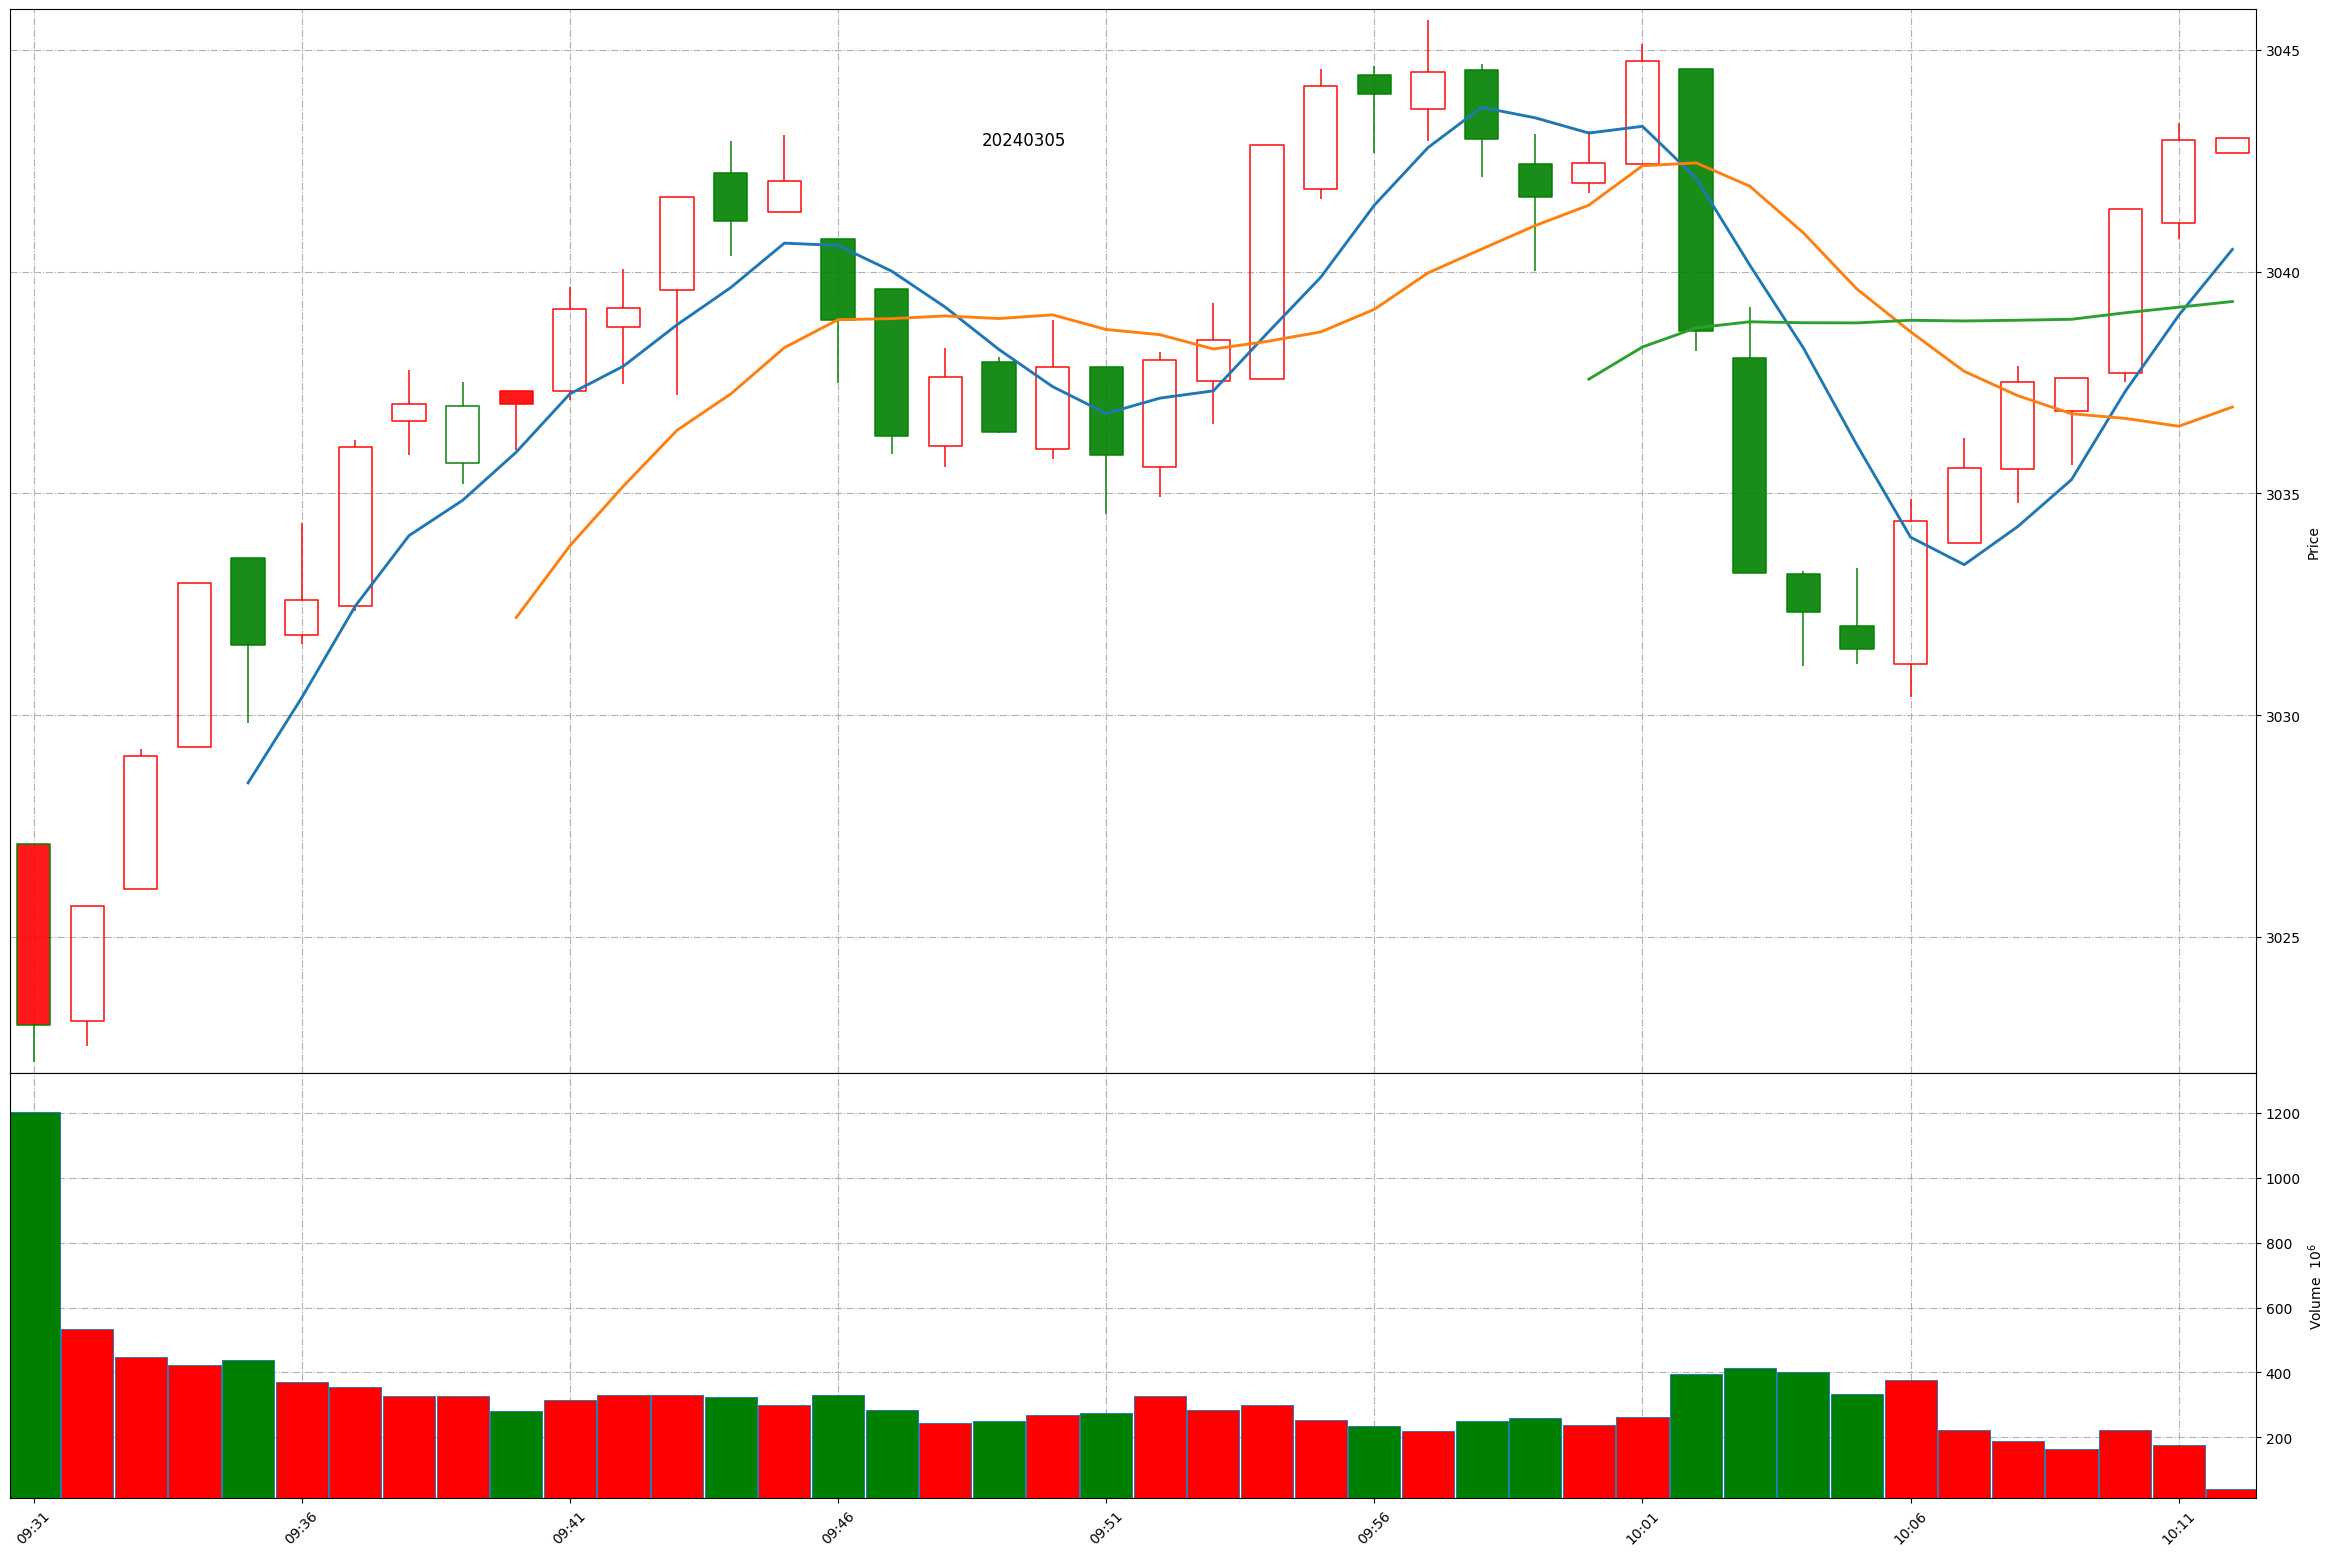
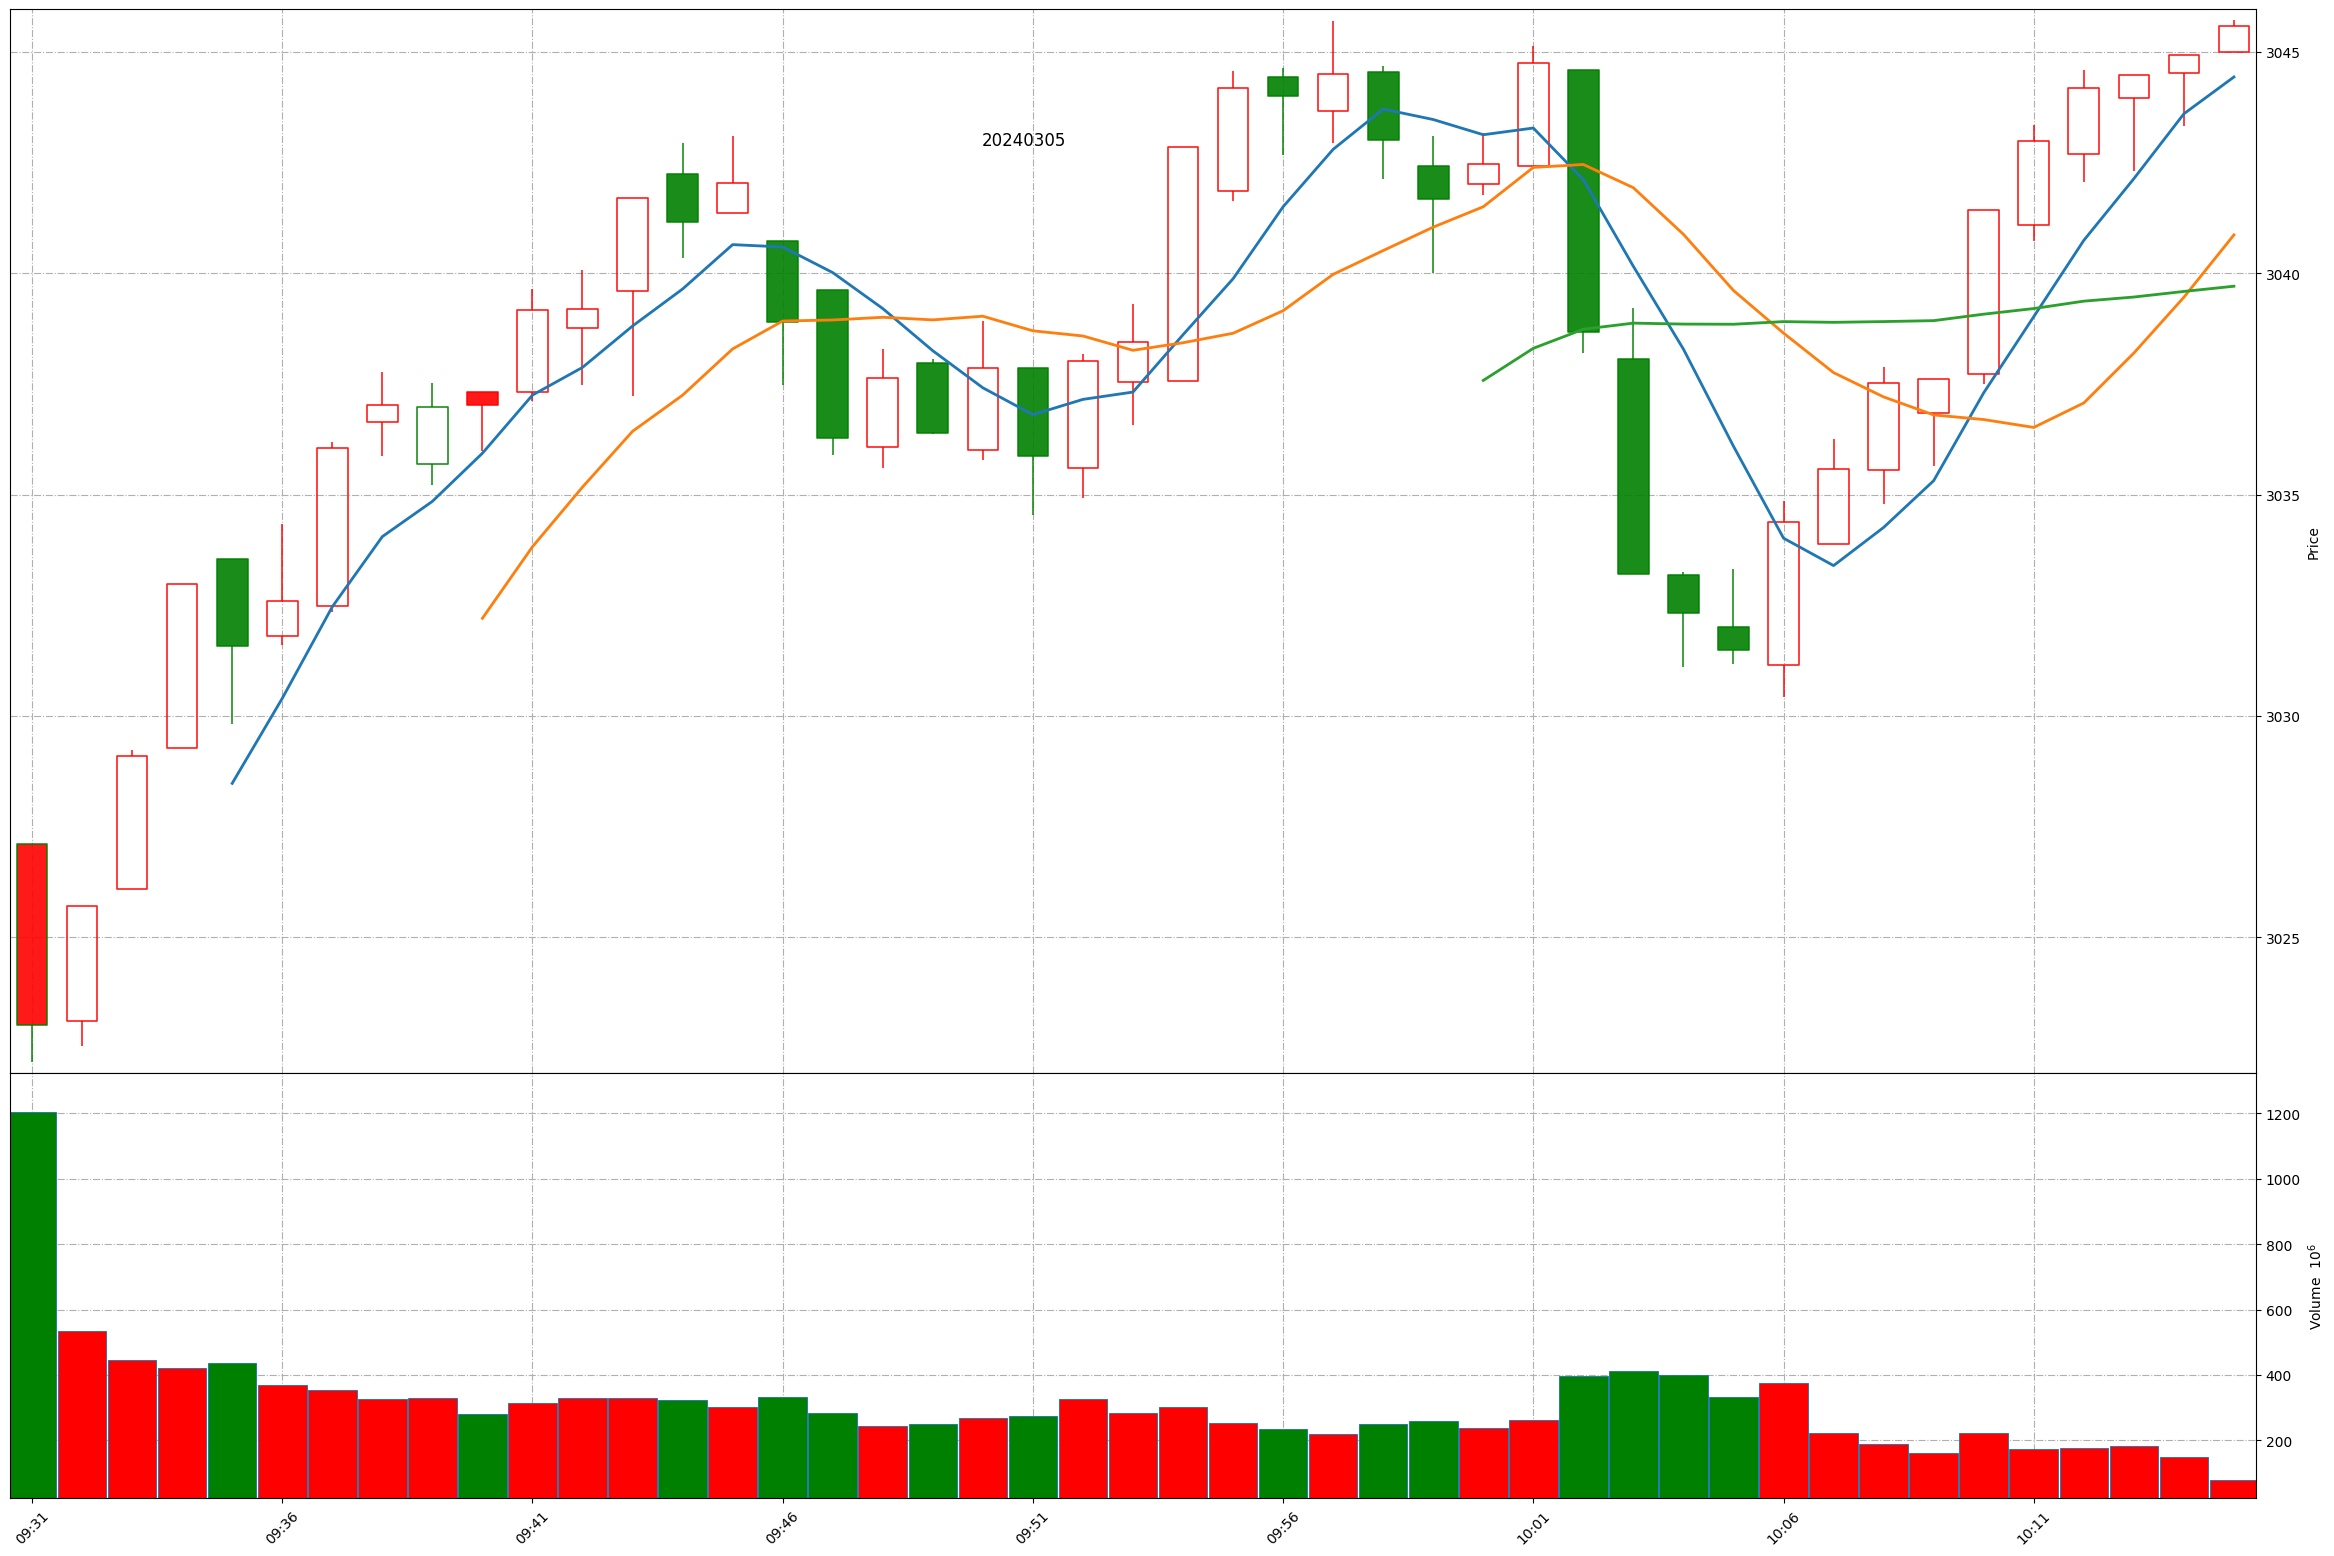
Github action update at 2024-03-05 10:14:52.

diff --git a/README.md b/README.md
@@ -1,11 +1,11 @@
 
 # Daily-A-share-market-quotes 每日 A 股指数（5min 更新）- 20240305
 
-### 上证指数 20240305 10:11
+### 上证指数 20240305 10:14
 ![](./fig/2024/3/20240305-sh000001.png)
 
-### 深证成指 20240305 10:11
+### 深证成指 20240305 10:14
 ![](./fig/2024/3/20240305-sz399001.png)
 
-### 北证50 20240305 10:11
+### 北证50 20240305 10:14
 ![](./fig/2024/3/20240305-bj899050.png)
